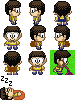
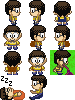
build campsites, touch up player imgs, misc

Changed region(s): [[0.3733, 0.75, 0.64, 1.0], [0.4267, 0.48, 0.56, 0.51], [0.1067, 0.24, 0.2133, 0.27]]

diff --git a/board.js b/board.js
@@ -1,12 +1,13 @@
 class Board extends WemoObject {
   constructor(a,b){
     super()
-    if (arguments.length === 1 && typeof a === "object"){
+    this.buildings = []
+    if (arguments.length === 1 && typeof a === "object"){//loading a game, whether default, custom or resumed
       this.import(a)
       if (this.version !== 3)
         this.convertVersion2()
     }
-    else if (arguments.length === 2){
+    else if (arguments.length === 2){// creating a new game on editor
       this.cols = a
       this.rows = b
       let output = []
@@ -114,13 +115,23 @@ class Board extends WemoObject {
       let tile = this.fires[i].value > 0 ? tiles.fire[Math.floor((frameCount%6)/2)] : tiles.firepit
       image(tile, this.fires[i].x*25, this.fires[i].y*25+topbarHeight)
       if (this.fires[i].value > 0)
-        this.drawProgressBar(this.fires[i].x, this.fires[i].y, this.fires[i].value)
+        this.drawProgressBar(this.fires[i].x, this.fires[i].y, this.fires[i].value, 0)
     }
     if (this.bombs){
       for (var i = this.bombs.length - 1; i >= 0; i--) {
         this.bombs[i].display()
         if (this.bombs[i].move())
           this.bombs.splice(i, 1)
+      }
+    }
+    if (this.buildings){
+      for (let b of this.buildings){
+        image(tiles[b.type], b.x*25, b.y*25+topbarHeight)
+        if (b.fireValue > 0){
+          let tile = tiles.fire[Math.floor((frameCount%6)/2)]
+          image(tile, b.x*25+5, (b.y+1)*25+topbarHeight)
+          this.drawProgressBar(b.x, b.y+1, b.fireValue, 5)
+        }
       }
     }
   }
@@ -259,38 +270,48 @@ class Board extends WemoObject {
     vertex(world.width,world.height)
     vertex(0,world.height)
     let fires = board.fires
-    for (let i=0; i<fires.length; i++){
-      if (fires[i].value > 0){
-        let size = (fires[i].value/4)+3.1
-        let x = fires[i].x*25+12.5
-        let y = fires[i].y*25+12.5+topbarHeight
-        let r = size*25/2
-        let arm = r*0.54666
-        if (dark && man.inDark){
-          let d = dist(active.x*25+12.5, active.y*25+topbarHeight+12.5, x, y)
-          man.inDark = d > r-10
-        }
-        beginContour()
-        vertex(x,y-r)
-        bezierVertex(x-arm,y-r,x-r,y-arm,x-r,y)
-        bezierVertex(x-r,y+arm,x-arm,y+r,x,y+r)
-        bezierVertex(x+arm,y+r,x+r,y+arm,x+r,y)
-        bezierVertex(x+r,y-arm,x+arm,y-r,x,y-r)
-        endContour()
-      }
+    for (let f of fires){
+      if (f.value > 0)
+        this.cutFireCircle(f.x, f.y, f.value, dark)
+    }
+    for (let b of this.buildings){
+      if (b.fireValue > 0)
+        this.cutFireCircle(b.x, b.y+1, b.fireValue, dark)
     }
     endShape(CLOSE)
-    for (let i =0; i<fires.length; i++){
-      if (fires[i].value > 0){
-        let size = (fires[i].value/4)+3.1
-        this.drawFireCircle(fires[i].x,fires[i].y,size,alpha)
-      }
+    for (let f of fires){
+      if (f.value > 0)
+        this.drawFireCircle(f.x,f.y,f.value,alpha)
+    }
+    for (let b of this.buildings){
+      if (b.fireValue > 0)
+        this.drawFireCircle(b.x,b.y+1,b.fireValue,alpha)
     }
     if (man.inDark && man.isSleeping)
       image(tiles.z, man.x*25, man.y*25+topbarHeight)
   }
 
-  drawFireCircle(x,y,size,alpha){
+  cutFireCircle(bx,by,value,dark){
+    let size = (value/4)+3.1
+    let x = bx*25+12.5
+    let y = by*25+12.5+topbarHeight
+    let r = size*25/2
+    let arm = r*0.54666
+    if (dark && man.inDark){
+      let d = dist(active.x*25+12.5, active.y*25+topbarHeight+12.5, x, y)
+      man.inDark = d > r-10
+    }
+    beginContour()
+    vertex(x,y-r)
+    bezierVertex(x-arm,y-r,x-r,y-arm,x-r,y)
+    bezierVertex(x-r,y+arm,x-arm,y+r,x,y+r)
+    bezierVertex(x+arm,y+r,x+r,y+arm,x+r,y)
+    bezierVertex(x+r,y-arm,x+arm,y-r,x,y-r)
+    endContour()
+  }
+
+  drawFireCircle(x,y,value,alpha){
+    let size = (value/4)+3.1
     ellipseMode(CENTER)
     if (alpha < 20){
       fill(0,0,0,Math.floor(alpha/2))
@@ -330,16 +351,16 @@ class Board extends WemoObject {
     ellipse(x*25+12.5, y*25+offset+12.5,23,23)
   }
 
-  drawProgressBar(i,j,value){
+  drawProgressBar(i,j,value, Xoffset){
     fill(255)
     stroke(80)
     strokeWeight(1)
-    rect(i*25+2,j*25+19+topbarHeight, 21, 4)
+    rect(i*25+2+Xoffset,j*25+19+topbarHeight, 21, 4)
     let color = value > 12 ? "green" :
                  value > 6 ? "#e90" : "red"
     fill(color)
     noStroke()
-    rect(i*25+3, j*25+20+topbarHeight, value, 3)
+    rect(i*25+3+Xoffset, j*25+20+topbarHeight, value, 3)
   }
 
   convertVersion2(){

diff --git a/man.js b/man.js
@@ -26,7 +26,6 @@ class Man extends WemoObject {
   }
 
   display() {
-    this.canSleep = board.wemoMins%1440 >= 1290 || board.wemoMins%1440 < 150
     if (game.mode === "build"){
       strokeWeight(2)
       stroke(128)
@@ -36,22 +35,23 @@ class Man extends WemoObject {
       this.drawImage(this.img, this.index, this.x*25, this.y*25+topbarHeight, 25, 25)
       return
     }
-    if (this.inDark){
-      message.following.msg = "You're too far from a fire!"
-      message.following.frames = 1
-      this.health -= Math.floor((this.health+1500)/499)
-    }
-    else if (board.cells[this.x][this.y].type === "firepit" && board.fires[this.fireId].value > 0){
-      message.following.msg = "Get off the fire! You're burning!"
-      message.following.frames = 1
-      this.health -=25
-    }
+    this.update()
+
     if (this.isRiding){
       let sx = (active.index%3)*25
       let sy = Math.floor(active.index/3)*25
       let h = active.type === "canoe" && [0,1].includes(active.index) ? 19 :
               active.type === "canoe" ? 21 : 25
       image(this.img, active.x*25, active.y*25+topbarHeight, 25, h, sx, sy, 25, h)
+    }
+    else if (board.cells[this.x][this.y].type === "campsite"){
+      let id = board.cells[this.x][this.y].id
+      let x = board.buildings[id].x
+      let y = board.buildings[id].y
+      if (this.isSleeping)
+        image(tiles.z, (x+1)*25, y*25+topbarHeight+18)
+      else
+        this.drawImage(this.img, 10, (x+1)*25, y*25+topbarHeight+18, 25, 25)
     }
     else {
       let offset = backpack.weight > 0 ? 4 : 0
@@ -82,14 +82,34 @@ class Man extends WemoObject {
       }
       if (board.cells[this.x][this.y].byPit)
         this.drawPitLines(this.x, this.y)
-      if (this.isSleeping)
-       this.sleep()
+
+    }
+  }
+
+  update(){
+    this.canSleep = board.wemoMins%1440 >= 1290 || board.wemoMins%1440 < 150
+    if (this.inDark){
+      message.following.msg = "You're too far from a fire!"
+      message.following.frames = 1
+      this.health -= Math.floor((this.health+1500)/499)
+    }
+    else if (board.cells[this.x][this.y].type === "firepit" && board.fires[this.fireId].value > 0){
+      message.following.msg = "Get off the fire! You're burning!"
+      message.following.frames = 1
+      this.health -=25
+    }
+    if (this.isSleeping){
+       this.health = this.health < 4997 ? this.health+3 : 5000
+       this.energy = frameCount%3 === 0 && this.energy < 5000 ? this.energy+1 : this.energy
     }
   }
 
   move(x, y) {
     if (this.isClimbingOutOfPit || this.isFallingIntoPit || this.isSleeping)
       return
+    if (board.cells[this.x][this.y].type === "campsite" && board.cells[this.x+x][this.y+y].type === "campsite"){
+      x *= 2; y*= 2;
+    }
     //check for edge case
     if (this.x + x >= 0 && this.x + x < board.cols &&
       this.y + y >= 0 && this.y + y < board.rows){
@@ -146,11 +166,6 @@ class Man extends WemoObject {
     }
     this.isNextToFire = false
     this.fireId = null
-  }
-
-  sleep(){
-    this.health = this.health < 4997 ? this.health+3 : 5000
-    this.energy = frameCount%3 === 0 && this.energy < 5000 ? this.energy+1 : this.energy
   }
 
   dismount(){

diff --git a/actions.js b/actions.js
@@ -112,12 +112,32 @@ function build(type, pos){
       man.energy -= 150
     }
   }
+  // buy a bomb:
   else if (type === "bomb"){
     if (man.energy <= 300)
       return "Oops! you don't have enough energy!"
     backpack.addItem("bomb")
     man.energy -= 300
     return "You now have a bomb in your backpack. Press T to throw it in the direction you are pointed."
+  }
+  //build a campsite:
+  else if (type === "campsite"){
+    if (man.energy <= 500)
+      return "Oops! you don't have enough energy!"
+    else {
+      let construction = {
+        type: "campsite",
+        needed: [
+          {type: "log", quantity: 5, color: "#582C0F"},
+          {type: "longGrass", quantity: 10, color: "#207414"},
+          {type: "stick", quantity: 10, color: "#B66500"},
+          {type: "clay", quantity: 2, color: "#804000"}
+        ]
+      }
+      cell.type = "construction"
+      cell.construction = construction
+      man.energy -= 500
+    }
   }
   return false
 }
@@ -240,12 +260,17 @@ function eat(){
 }
 
 function fling(){
-  if (man.isNextToFire){
+  let cell = board.cells[man.x][man.y]
+  if (man.isNextToFire || cell.type === "campsite"){
     let items = backpack.includesItems(["log", "stick", "longGrass"])
     if (items.length > 0){
-      let fire = board.fires[man.fireId]
-      fire.value = items[0].type === "log" ? Math.min(fire.value+13, 20) :
-                     items[0].type === "stick" ? Math.min(fire.value+5, 20) : Math.min(fire.value+2, 20)
+      let fireValue = cell.type === "campsite" ? board.buildings[cell.id].fireValue : board.fires[man.fireId].value
+      fireValue = items[0].type === "log" ? Math.min(fireValue+13, 20) :
+                     items[0].type === "stick" ? Math.min(fireValue+5, 20) : Math.min(fireValue+2, 20)
+      if (cell.type === "campsite")
+        board.buildings[cell.id].fireValue = fireValue
+      else
+        board.fires[man.fireId].value = fireValue
       backpack.removeItem(items[0].type, 1)
     }
   }
@@ -270,6 +295,17 @@ function fling(){
               else if (item.type === "steppingStones"){
                 cell = board.cells[cell.x][cell.y]
                 cell.type = "steppingStones"
+              }
+              else if (item.type === "campsite"){
+                let site = {type: "campsite", x: cell.x, y: cell.y, items: [], fireValue: 0}
+                let id = board.buildings.length
+                board.buildings.push(site)
+                for (let i = cell.x; i <= cell.x+1; i++){
+                  for (let j = cell.y; j <= cell.y+1; j++){
+                    board.cells[i][j].type = "campsite"
+                    board.cells[i][j].id = id
+                  }
+                }
               }
               delete cell.construction
             }

diff --git a/main.js b/main.js
@@ -33,7 +33,7 @@ let showCount //man uses it to display falling in pit animation
 
 const topbarHeight = 55
 const dumpable = ["beach", "sand", "grass", "stump", "beachEdge", "grassBeach", "logpile", "dock", "rockpile", "stickpile", "log", "rock","stick", "clay"]
-const sleepable = ["beach", "sand", "grass", "beachEdge", "grassBeach", "dock", "longGrass", "rockMiddle"]
+const sleepable = ["beach", "sand", "grass", "beachEdge", "grassBeach", "dock", "longGrass", "rockMiddle", "campsite"]
 const buildable = ["sand", "grass", "beachEdge", "stump", "longGrass", "rockMiddle", "firepit"]
 const fordable = ["river5","river6","river7","river8","river9","river10","river11","river12","river17","river18"]
 const seeThru = ["log", "randomLog", "bone", "steppingStones", "randomRock", "randomStick", "stick"]
@@ -65,6 +65,7 @@ function preload(){
     bomb: loadImage("images/bomb1.png"),
     bones: loadImage("images/bone.png"),
     boneShovel: loadImage("images/boneShovel.png"),
+    campsite: loadImage("images/campsite.png"),
     clouds: loadImage("images/clouds.png"),
     cross: loadImage("images/cross.png"),
     day: loadImage("images/sun.png"),
@@ -86,7 +87,8 @@ function preload(){
     clay4: loadImage("images/clay4.png"),
     clay5: loadImage("images/clay5.png"),
     construction: {
-      raft: loadImage("images/raftHB.png")
+      raft: loadImage("images/raftHB.png"),
+      campsite: loadImage("images/campsiteHB.png")
     },
     explosion: loadImage("images/explosion.png"),
     fire: [

diff --git a/popup.js b/popup.js
@@ -78,6 +78,8 @@ var popup = new Vue({
                   cost: "400 energy, 8 logs, 8 long grass", info: "For exploring water", active: true},
         {id: "steppingStones", src: "images/steppingStonesIcon.png", title: "Stepping Stones",
                   cost: "150 energy, 3 rocks", info: "For crossing rivers", active: true},
+        {id: "campsite", src: "images/campsite.png", title: "Campsite",
+                  cost: "500 energy, 5 logs, 10 sticks, 2 clay, 10 long grass", info: "To live in", active: true},
         {id: "bomb", src: "images/bomb1.png", title: "Bomb",
                   cost: "300 energy", info: "For clearing away clouds", active: false}
 

diff --git a/builder.js b/builder.js
@@ -72,7 +72,7 @@ let builder = {
       case "raft":
         return (cell.type === "beach" && helpers.isNextToType(x, y, "water")) || cell.type === "river"
       case "campsite":
-        return buildable.includes(cell.type)
+        return buildable.includes(cell.type) && !cell.byPit
       case "firepit":
         return ["grass", "sand", "stump", "beach", "beachEdge", "grassBeach", "rockMiddle"].includes(cell.type)
       default:

diff --git a/editbar.js b/editbar.js
@@ -120,6 +120,7 @@ let editBar = {
         { id: "grass", src: "images/grass.png", type: "grass"}
       ],
       tiles5: [
+        { id: "stick", src: "images/stick.png", type: "stick"},
         { id: "rockMiddle", src: "images/rockEdge13.png", type: "rockMiddle"},
         { id: "water", src: "images/water.png", type: "water"},
         { id: "random", src: "images/random.png", type: "random"},

diff --git a/timer.js b/timer.js
@@ -58,6 +58,12 @@
       if (board.fires[i].value > 0)
         board.fires[i].value--
     }
+    if (x === 0){
+      for (let i=x; i<board.buildings.length; i++){
+        if (board.buildings[i].type === "campsite" && board.buildings[i].fireValue > 0)
+          board.buildings[i].fireValue--
+      }
+    }
   },
 
   growBerries(){

diff --git a/editor.js b/editor.js
@@ -67,7 +67,7 @@ let editor = {
       board.cells[x][y].type = type
       board.cells[x][y].quantity = 5
     }
-    else if (["log", "randomLog", "bone", "randomRock", "randomStick"].includes(type))
+    else if (seeThru.includes(type))
       board.cells[x][y].type = type
     else
       board.cells[x][y] = {tile, type}
